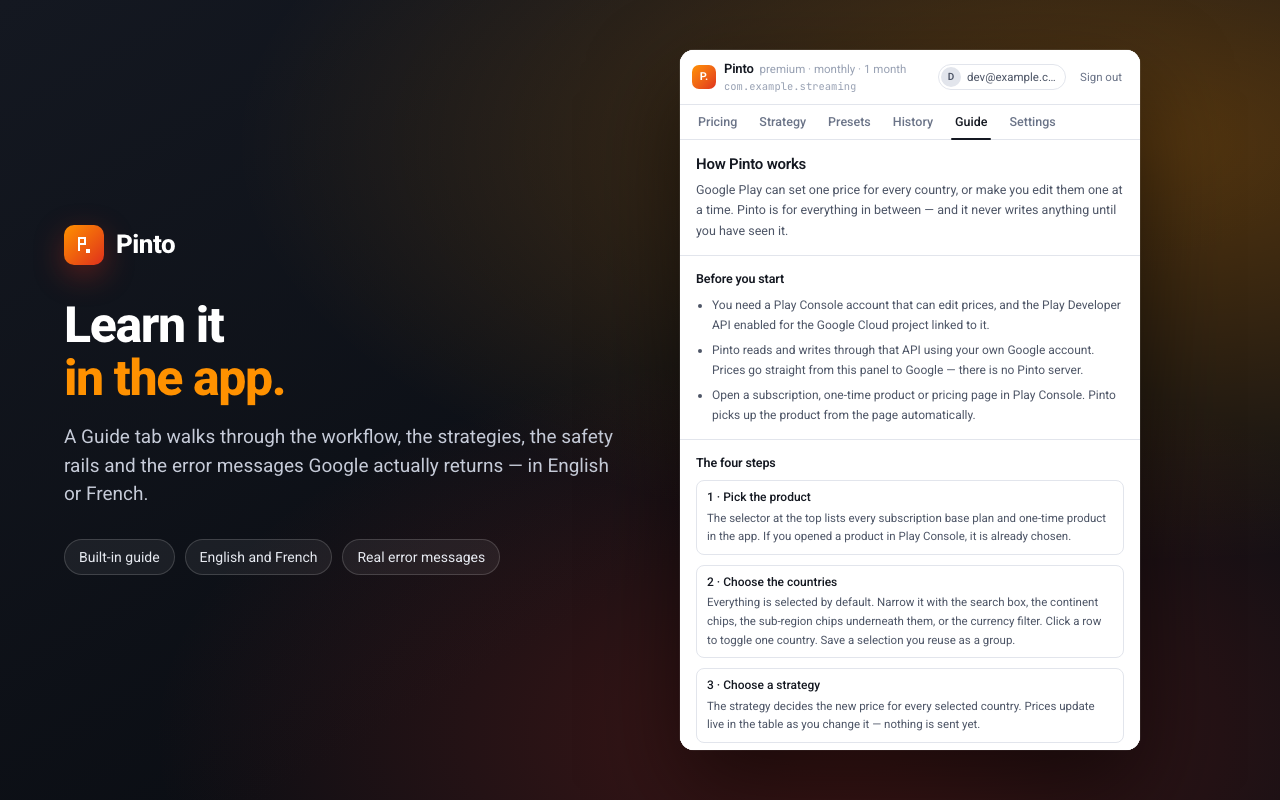
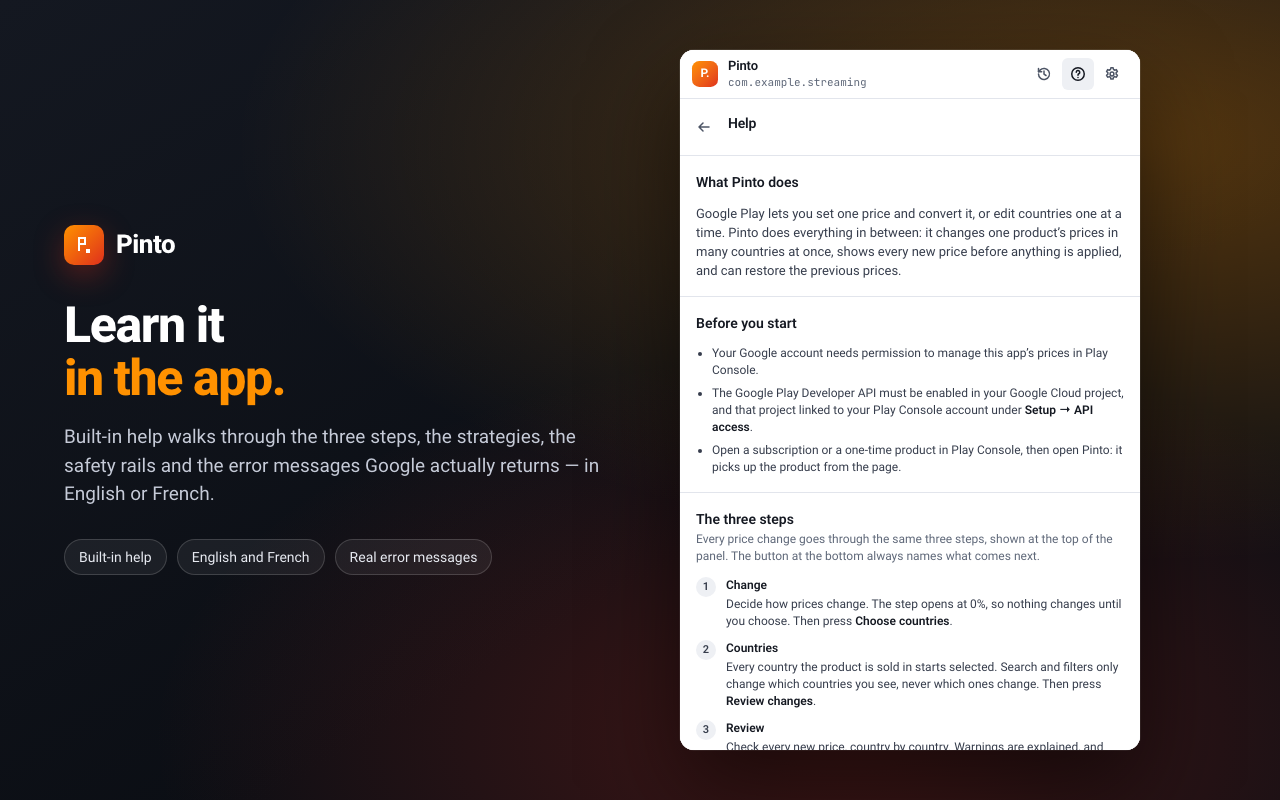
Release 1.1.0
The redesign ships as 1.1.0: the Web Store refuses a package at a version it
has already received, and nothing in it breaks stored data, so a minor bump.

The documents a reviewer compares with the package described 1.0. The privacy
policy, the privacy form and the permission notes in PUBLISHING.md said the
account is shown "in the panel header" (it is now in Settings and the popup),
listed history as prices-before-each-write only (entries now also keep the
change applied, the prices written and Google's reason for any refusal), left
out the last change kept in settings and the window layout kept in Play
Console's page storage, and pointed at a History tab that no longer exists.
The log is no longer said to never contain a price: Pinto writes none, but it
keeps Google's error messages, which may quote one. The profile picture loaded
from googleusercontent.com is now listed among what is sent.

The listing asked users for "your own Google API key" — Pinto takes an OAuth
client ID — and said prepaid plans are not touched, which has not been true
since 1.0: every base plan is editable. The short description it quoted is now
the localized summary from the package.

The store screenshots are regenerated from the new interface; a listing that
shows an older build is a rejection reason on its own. The in-app "What Pinto
stores" text says the same as the policy.

Changed region(s): [[0.5312, 0.0625, 0.875, 0.9375], [0.0312, 0.5312, 0.4688, 0.625], [0.0938, 0.6875, 0.375, 0.7188]]

diff --git a/src/i18n/locales/fr/settings.ts b/src/i18n/locales/fr/settings.ts
@@ -43,7 +43,7 @@ export const settings: Translation<typeof en> = {
 
   'settings.storage.title': 'Ce que Pinto conserve',
   'settings.storage.machine':
-    'Sur cet ordinateur : votre ID client OAuth, vos réglages, modèles et groupes, l’historique des opérations avec ses instantanés de prix, le nom de package associé à chaque application de la Play Console, et un journal technique.',
+    'Sur cet ordinateur : votre ID client OAuth, vos réglages (dont la dernière modification appliquée), vos modèles et groupes, l’historique de vos 50 dernières opérations avec les prix avant et après chacune, le nom de package associé à chaque application de la Play Console, un journal technique, et la position de la fenêtre du panneau.',
   'settings.storage.session':
     'En mémoire, pour cette session du navigateur uniquement : le jeton d’accès, ainsi que votre nom, votre adresse e-mail et votre photo.',
   'settings.storage.nowhere':

diff --git a/src/i18n/locales/en/settings.ts b/src/i18n/locales/en/settings.ts
@@ -41,7 +41,7 @@ export const settings = {
 
   'settings.storage.title': 'What Pinto stores',
   'settings.storage.machine':
-    'On this machine: your OAuth client ID, settings, presets and groups, the operation history with its price snapshots, which package name belongs to which Play Console app, and a technical log.',
+    'On this machine: your OAuth client ID, settings (including the last change applied), presets and groups, the history of your last 50 operations with the prices before and after each one, which package name belongs to which Play Console app, a technical log, and where the panel window sits.',
   'settings.storage.session':
     'In memory for this browser session only: the access token, and your name, email and picture.',
   'settings.storage.nowhere':

diff --git a/PRIVACY.md b/PRIVACY.md
@@ -1,6 +1,6 @@
 # Pinto — Privacy Policy
 
-_Last updated: 24 August 2026_
+_Last updated: 3 November 2026_
 
 Pinto is a Chrome extension that edits Google Play product prices in bulk. This
 policy describes every piece of data it touches.
@@ -19,7 +19,7 @@ access token for these scopes:
 | Scope | Why |
 | --- | --- |
 | `https://www.googleapis.com/auth/androidpublisher` | Read and update the prices of your own Play Console products |
-| `openid`, `email`, `profile` | Show which account is connected in the panel header |
+| `openid`, `email`, `profile` | Show which account is connected, in Pinto's Settings and its toolbar popup |
 
 **Your Play Console product data.** Product ids, base plans, purchase options,
 regional prices and currencies — read from, and written to, the Google Play
@@ -27,7 +27,9 @@ Developer API.
 
 **The Play Console page you are on.** Pinto reads the current tab's URL to work
 out which app and product you are looking at. It reads the page itself only to
-attempt to find the app's package name; if that fails it asks you to type it.
+attempt to find the app's package name (if that fails it asks you to type it)
+and to find the price table its launcher is placed beside. Nothing read from the
+page is stored except the package name you confirm.
 
 ## What Pinto stores, and where
 
@@ -37,18 +39,29 @@ All storage is local to your browser. None of it is transmitted anywhere.
 
 - The OAuth client ID you configure
 - Pricing presets you save
-- Operation history: what you applied, when, and the prices as they were
-  immediately before each write (this is what makes Undo possible)
+- Operation history, for your 50 most recent operations, simulations included:
+  the change you applied and when, the prices as they were immediately before
+  each write (this is what makes Restore possible), the prices each write asked
+  for (so a restore can skip countries edited since), and, for any country that
+  was not updated, the reason, including Google's own message
 - A map of Play Console's internal app id to the package name you confirmed
 - Custom country groups you create
-- Your settings, including the panel language
-- A technical log of API operations. It records region codes, product ids and
-  API status codes. **It does not record prices.**
+- Your settings: the interface language (Automatic, English or French), and the
+  last change you applied and when, so Pinto can offer it again
+- A technical log of API operations. It records region codes, product ids, API
+  status codes and Google's error messages. Pinto does not write prices into
+  it, though an error message from Google may quote one.
+
+**Play Console's page storage (`localStorage` on play.google.com)**
+
+- The position, size and docking of Pinto's window, so it reopens where you
+  left it. Nothing else.
 
 **`chrome.storage.session` — memory only, erased when Chrome closes**
 
 - The OAuth access token
-- Your name, email address and avatar URL, to display in the header
+- Your name, email address and avatar URL, to show which account is connected
+  in Settings and in the toolbar popup
 
 Pinto never requests and never stores an OAuth refresh token, and no credential
 is ever written to disk.
@@ -61,14 +74,18 @@ Only to Google, only these:
   and asking Google to convert a reference price into local currencies
 - `accounts.google.com` — the sign-in flow
 - `openidconnect.googleapis.com` — retrieving your name, email and avatar
+- Google's image servers (`googleusercontent.com`) — loading your profile
+  picture, shown in Settings
 
 The developer of Pinto receives nothing. There is no endpoint to receive it.
 
 ## Deleting your data
 
 Removing the extension from `chrome://extensions` deletes everything Pinto
-stored. You can also clear history from the History tab at any time, and revoke
-Pinto's access to your Google account at
+stored in `chrome.storage`. The window layout kept in Play Console's page
+storage goes when you clear site data for play.google.com. You can also clear
+history at any time from **History** in the panel header, delete presets and
+groups where you use them, and revoke Pinto's access to your Google account at
 [myaccount.google.com/permissions](https://myaccount.google.com/permissions).
 
 ## Permissions

diff --git a/PUBLISHING.md b/PUBLISHING.md
@@ -69,7 +69,7 @@ GitHub Pages is an alternative if you would rather serve a plain page than a
 rendered Markdown file. It changes nothing about the policy itself.
 
 Keep the policy and the manifest in step. `PRIVACY.md` names the exact scopes,
-permissions and storage keys Pinto uses, so any change to `public/manifest.json`
+permissions and stored data Pinto uses, so any change to `public/manifest.json`
 that adds a permission is also a change to that file — and reviewers do compare
 the two.
 
@@ -107,10 +107,11 @@ screen, so nothing has to be documented for them).
 | Language | English |
 | Single purpose | Bulk editing of Google Play product prices across countries |
 
-**Short description** (132 char max — the manifest description is already within
-the limit and is reused):
+**Summary** — not a field you fill: the devconsole shows "Summary from package",
+the manifest description (`extDescription` in `public/_locales/<lang>/messages.json`,
+132 characters max), so it changes only with a new package:
 
-> Bulk pricing, without the bulk work. Edit Google Play regional prices across every country from one review-before-apply workflow.
+> Change Google Play prices across many countries at once: pick a change, choose the countries, review every price, then apply.
 
 **Detailed description** — `docs/store/listing.txt` holds both descriptions,
 ready to paste. The field takes 16,000 characters and plain text only: the
@@ -149,13 +150,13 @@ answers. Use these:
 
 | Item | Justification |
 | --- | --- |
-| `storage` | Stores the user's own pricing presets, operation history with price snapshots for undo, and settings, locally in the browser. Nothing is transmitted. |
+| `storage` | Stores the user's own OAuth client ID, pricing presets, country groups, settings (language, last change applied), the package name confirmed for each app, a technical log and an operation history with the prices before and after each write, for restore — locally in the browser. Nothing is transmitted. |
 | `identity` | Runs the Google OAuth flow so the user can authorise access to their own Google Play Developer API data. |
 | `play.google.com/console/*` | The extension's entire interface is injected into Play Console monetisation pages, and the current URL identifies which app and product the user is editing. |
 | `androidpublisher.googleapis.com/*` | The Google Play Developer API, used to read and write the user's product prices. This is the extension's core function. |
-| `openidconnect.googleapis.com/*` | Reads the signed-in user's name, email and avatar to display which account is connected. |
+| `openidconnect.googleapis.com/*` | Reads the signed-in user's name, email and avatar to show which account is connected, in Settings and the toolbar popup. |
 | Remote code | **None.** All code is bundled in the package. |
-| Data usage | Tick: authentication information, website content. Then confirm the three certifications — Pinto sells nothing, transfers nothing, and uses data only for the user's own stated purpose. |
+| Data usage | Tick: personally identifiable information (name, email, avatar), authentication information, website content — exactly as in `docs/store/privacy-form.txt`. Then confirm the three certifications — Pinto sells nothing, transfers nothing, and uses data only for the user's own stated purpose. |
 
 ## 7. Submit
 

diff --git a/README.md b/README.md
@@ -278,7 +278,7 @@ Every screen is also photographed in both languages by `npm run screenshots` (`d
 - **Prices are checked again just before writing.** If a price or a currency changed since you loaded it (someone edited the product meanwhile), Pinto writes nothing and asks you to reload and review again.
 - **Existing subscribers keep their price.** New prices apply to new subscribers. Changing what existing subscribers pay is a separate Play flow with its own notice and consent rules, and Pinto deliberately does not automate it. The review screen says so.
 - **Conversion needs a currency Google will quote.** A market Google's conversion does not return, and that the product does not already price, has no rate; those rows are blocked with an explanation instead of guessed.
-- **Offers and prepaid plans are not edited.** Pinto writes base-plan and one-time-product prices. Offer prices are passed through untouched.
+- **Offers are not edited.** Pinto writes base-plan prices (auto-renewing and prepaid) and one-time-product prices. Offer prices are passed through untouched.
 - **One product at a time.** Applying one strategy across several products in one action is not implemented; the architecture allows it (the apply engine is keyed per product) but the UI is single-product.
 - **The package-name sniff is best-effort.** It is the one place Pinto reads Play Console's DOM. When it fails you type the name once.
 - **The regions version is discovered, not pinned.** Play requires one on every write and validates every region's currency against it, but exposes no way to read the current value — and the published default predates changes such as Bulgaria adopting the euro, which makes it reject valid prices. Pinto learns the live version from `convertRegionPrices` and falls back to the configured default only if that call fails.
